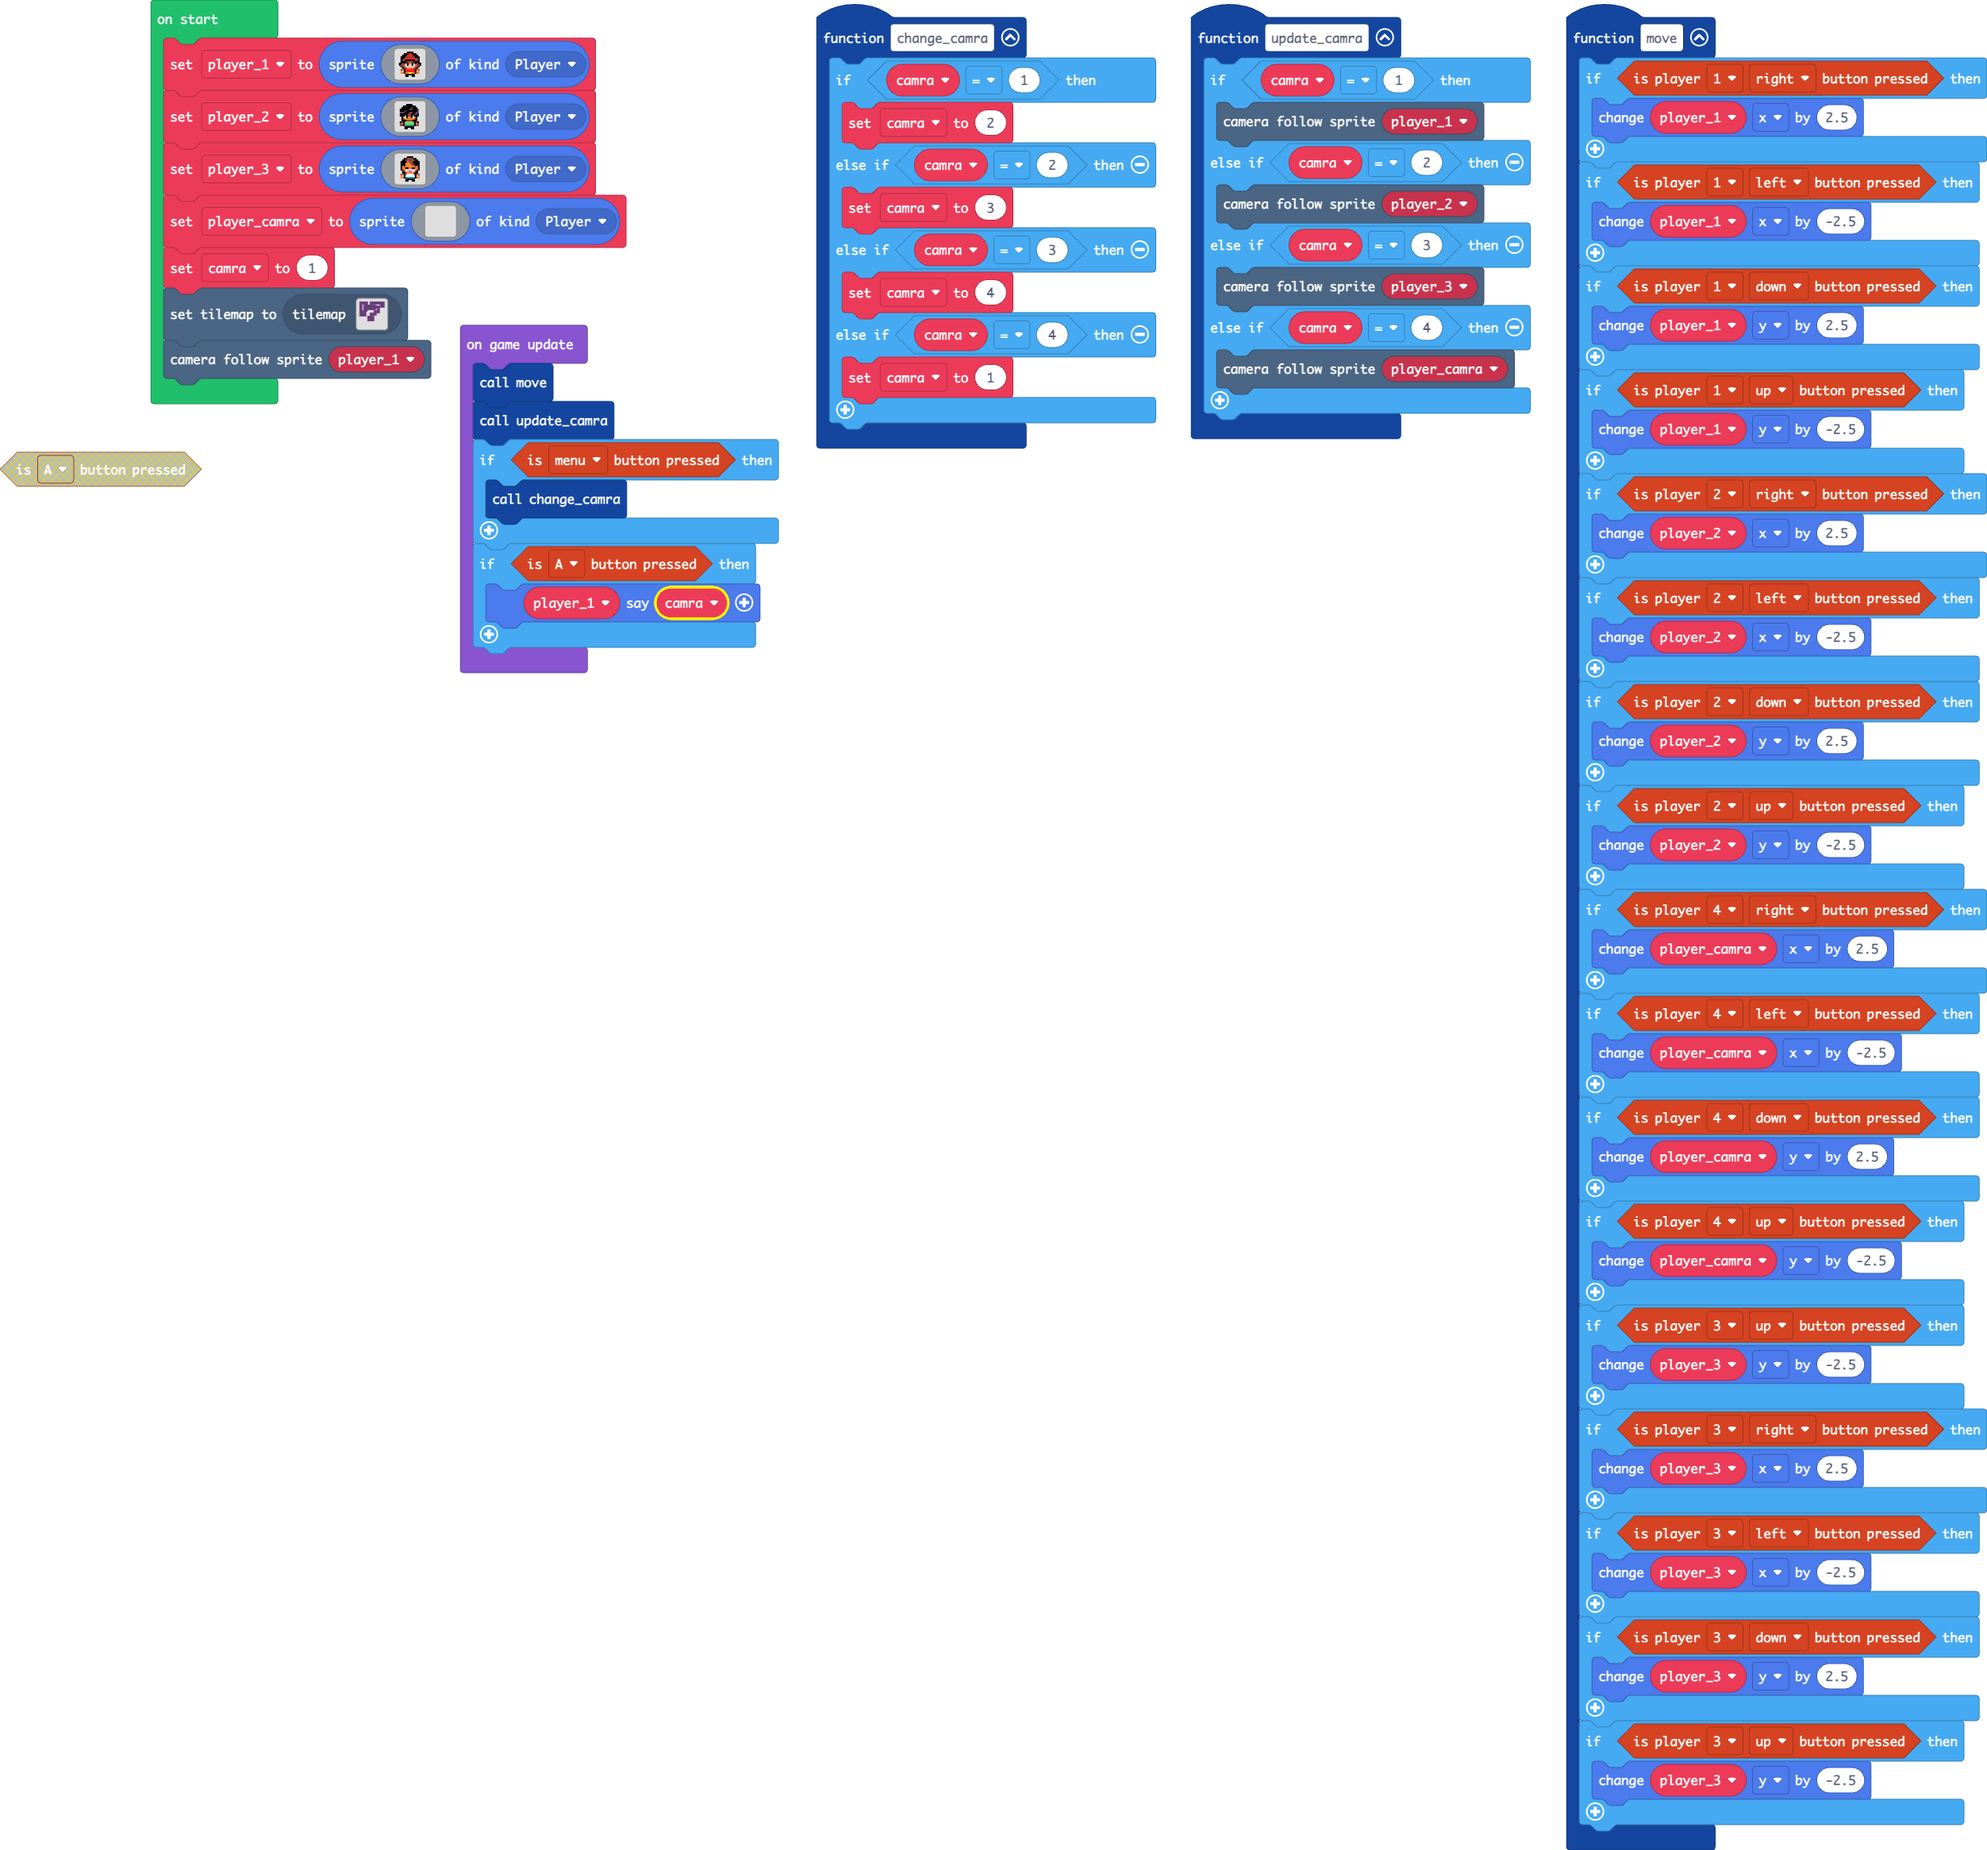
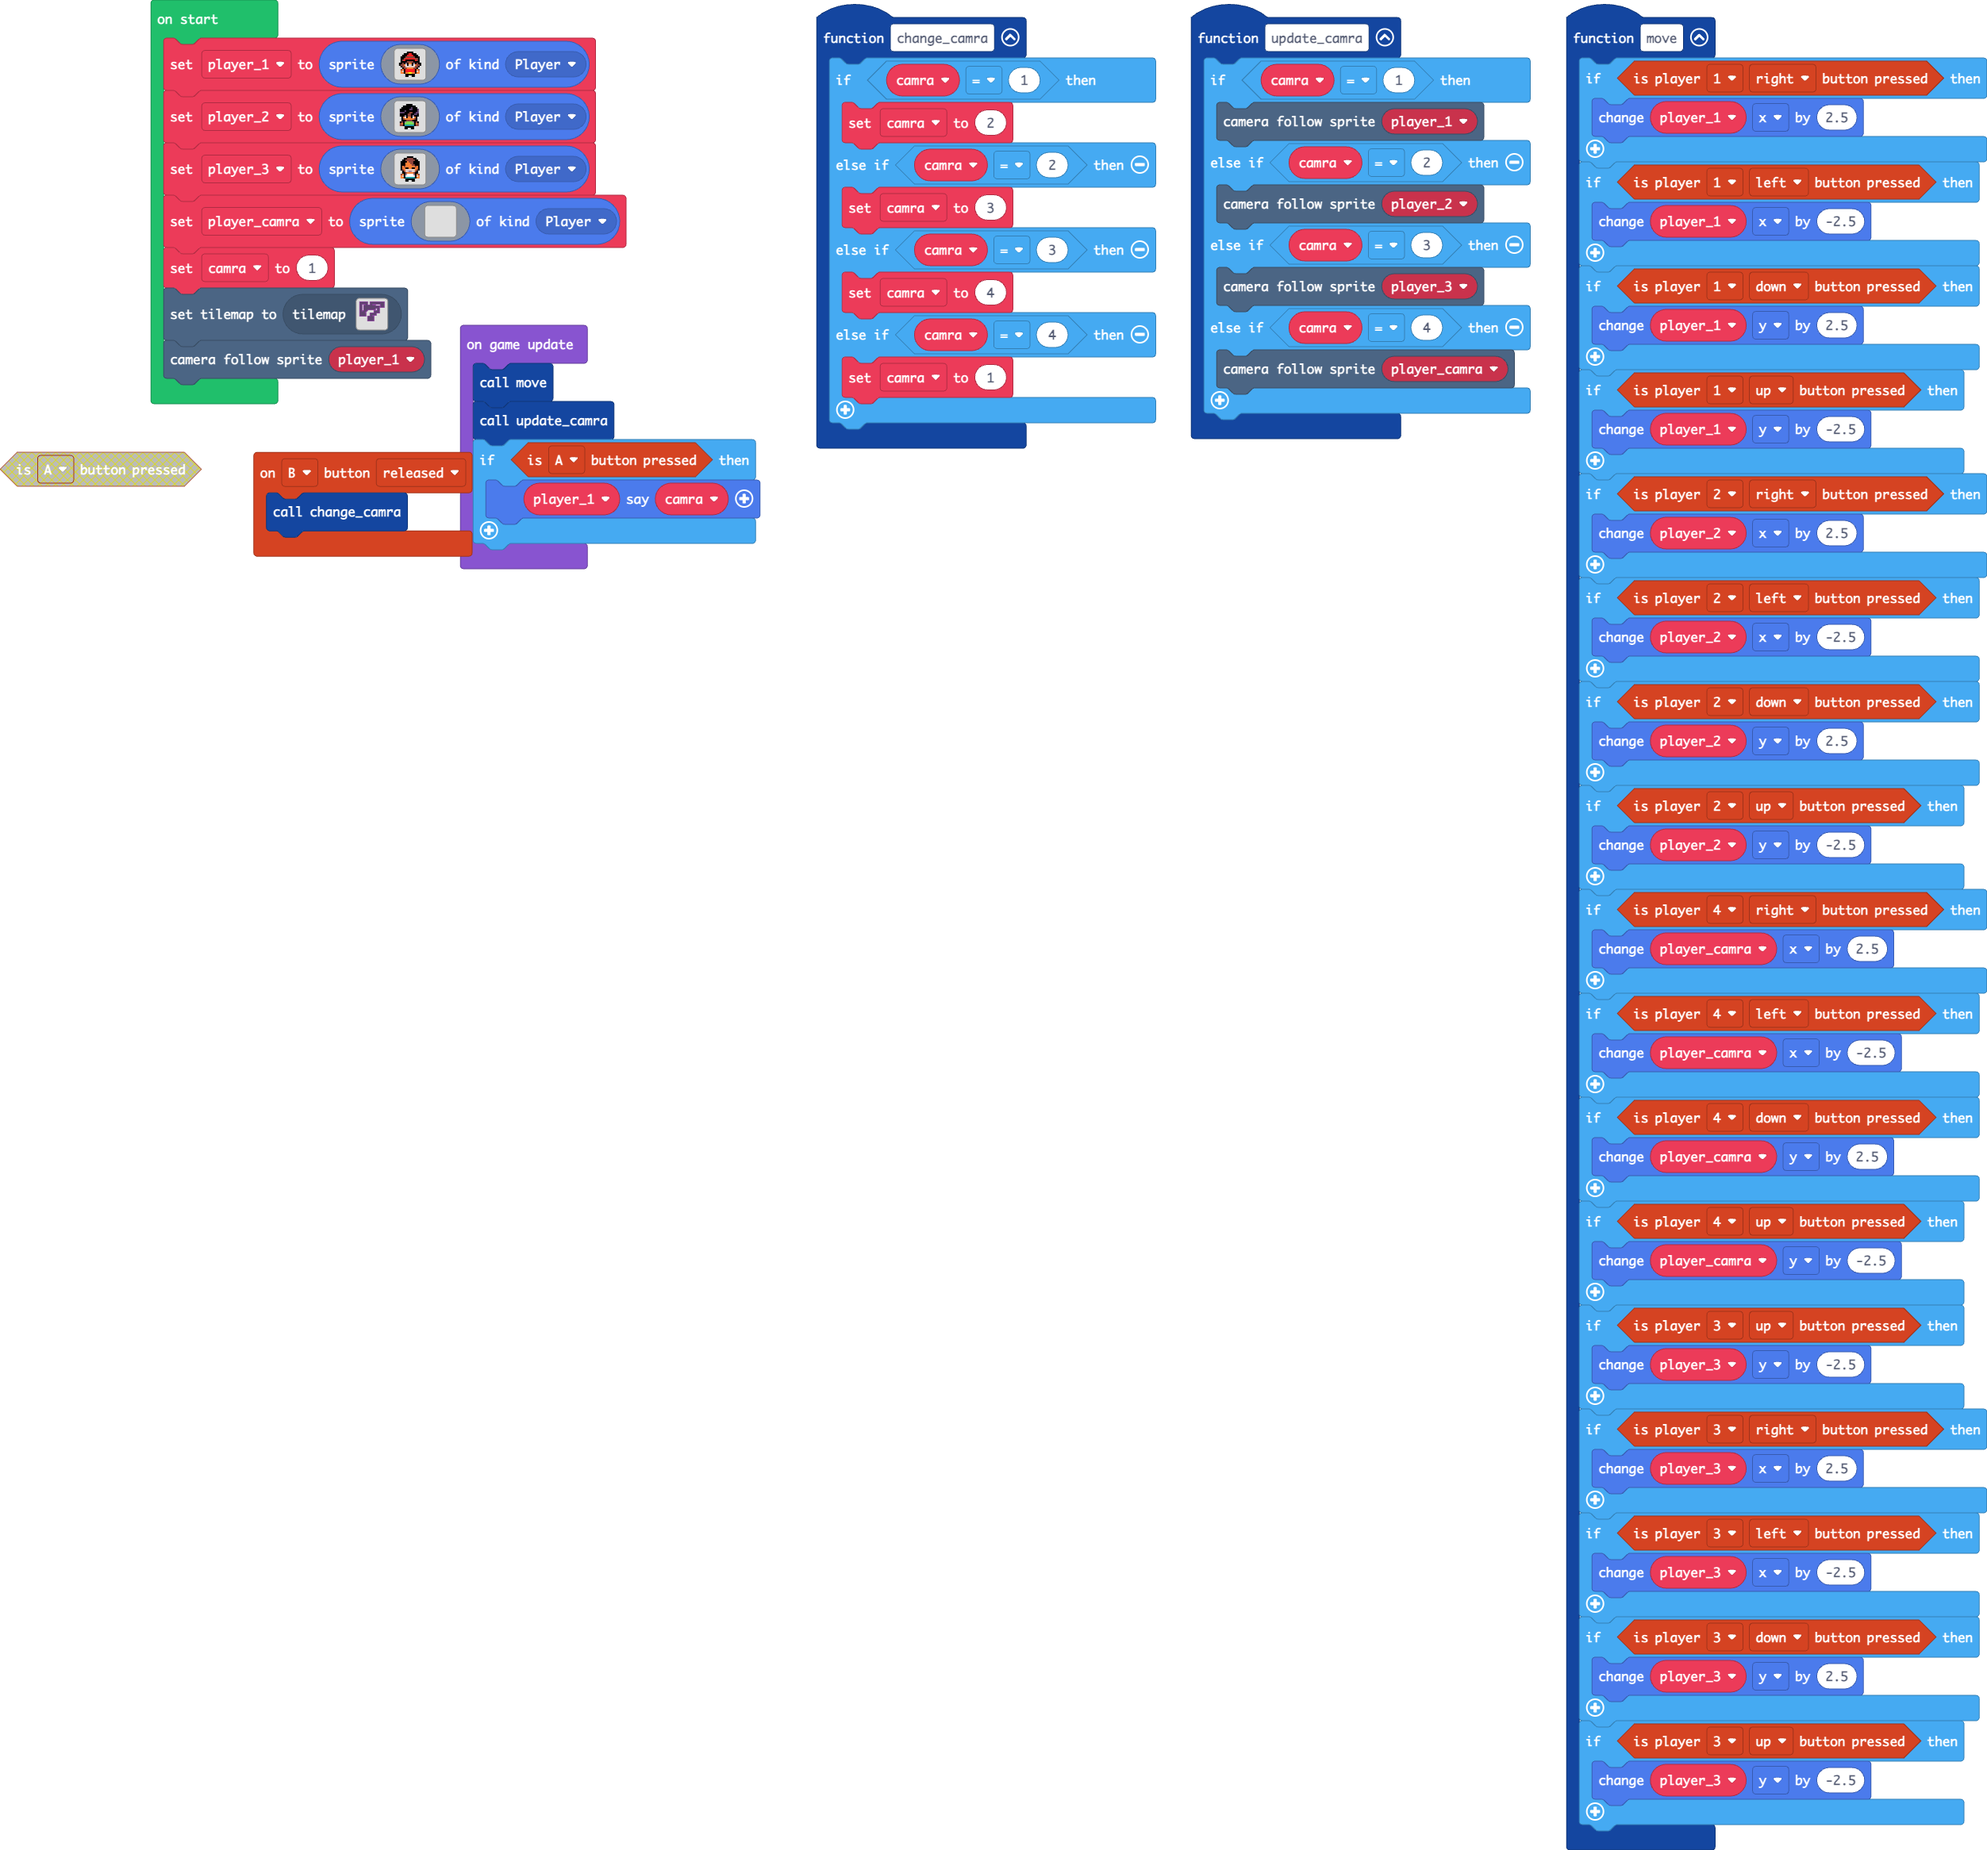
Update main.blocks, main.ts

Changed region(s): [[0.1246, 0.2161, 0.405, 0.3705]]

diff --git a/main.ts b/main.ts
@@ -9,6 +9,9 @@ function change_camra () {
         camra = 1
     }
 }
+controller.B.onEvent(ControllerButtonEvent.Released, function () {
+    change_camra()
+})
 function move () {
     if (controller.player1.isPressed(ControllerButton.Right)) {
         player_1.x += 2.5
@@ -105,9 +108,6 @@ scene.cameraFollowSprite(player_1)
 game.onUpdate(function () {
     move()
     update_camra()
-    if (controller.menu.isPressed()) {
-        change_camra()
-    }
     if (controller.A.isPressed()) {
         player_1.sayText(camra)
     }
